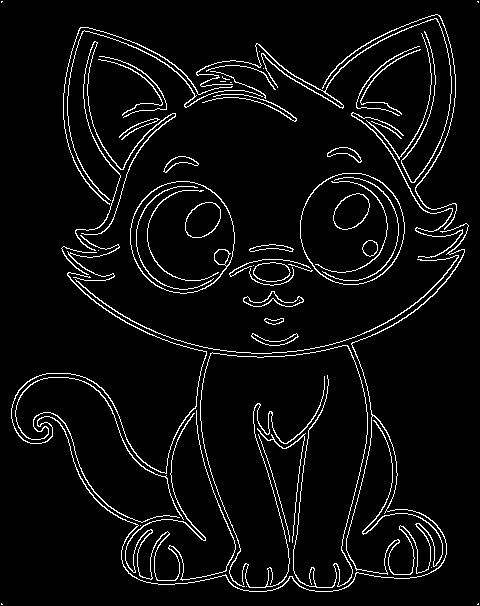
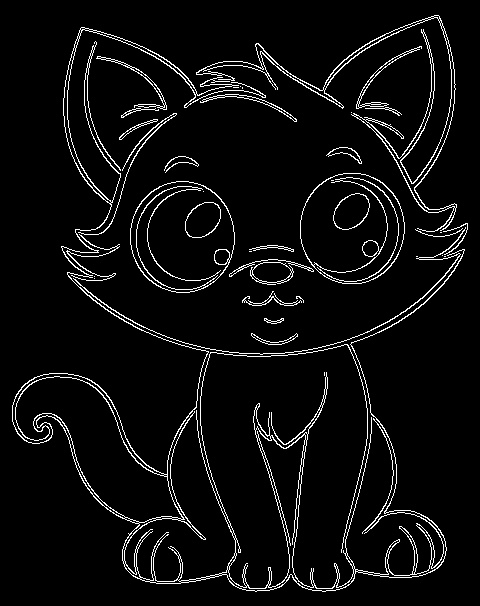
improved

diff --git a/ClassWork_4/portrait.py b/ClassWork_4/portrait.py
@@ -5,53 +5,144 @@ import matplotlib.pyplot as plt
 from animator import start_animation
 
 import sys
+sys.setrecursionlimit(10**3)
+import threading
+# threading.stack_size(2**26)
+# threading.Thread(target=start).start()
+
 sys.path.append('.\ClassWork_2')
 
 from canny import perform_canny
 
-def spread(image,x,y):
+def spread_2(image,sp_x,sp_y):
     h,w = image.shape
+        
+    parent_map = {}
+    length = 0
+    last = None
     
-    queue = deque()
-    queue.append( (x,y) )
-    
-    points = []
-    points.append( (x,y) )
+    def dfs(x,y, it):
+        
+        nonlocal length, last
+        
+        # if x == sp_x and y == sp_y and it != 0:
+        #     return
 
-    while queue:
-        item = queue.popleft()
-        x = item[0]
-        y = item[1]
-            
+
         if image[x,y] != 255:
-            continue
+            image[x][y] = 120
+            return
+        
+        image[x][y] = 120
 
-        image[x,y] = 120
+        it += 1
 
-        indices = ( (-1,-1), (0, -1), (1,-1), (-1,0), (0,0), (1,0), (-1,1), (0,1), (1,1) )
+        indices = [ (-1,-1), (0, -1), (1,-1), (-1,0), (0,0), (1,0), (-1,1), (0,1), (1,1) ]
+
+        
+
 
         for pt in indices:
             nx = x + pt[0]
             ny = y + pt[1]
             if nx < 0 or ny < 0 or nx >= h or ny >= w:
                 continue
+
             if image[nx,ny] == 255:
-                queue.append( (nx,ny) )
-                points.append( (nx,ny) )
+                parent_map[(nx,ny)] = (x,y)
+                dfs(nx,ny, it)
+                if( length <= it):
+                    length = it
+                    last = (nx,ny)
+            
+                    # image[nx,ny] = 120
+
+    parent_map[(sp_x,sp_y)] = None
+    dfs(sp_x, sp_y, 0)
+
+    print(length)
+
+    points = []
+    while( last != None ):
+        points.append( last )
+        last = parent_map[last]
+
+    return points
+
+def spread(image, sp_x, sp_y):
+    h, w = image.shape
+    
+    parent_map = {}
+    length = 0
+    last = None
+    
+    stack = [(sp_x, sp_y, 0)]
+    parent_map[(sp_x, sp_y)] = None
+    
+    while stack:
+        x, y, it = stack.pop()
+
+        # Skip this point if it's already processed or not white
+        if image[x, y] != 255:
+            continue
+        
+        # Mark this point as processed by setting it to 120
+        image[x, y] = 120
+
+        # Increment the path length
+        it += 1
+
+        # Store this as the last point if it's the longest path found so far
+        if it > length:
+            length = it
+            last = (x, y)
+
+        # Adjacent cell offsets
+        temp = [(-1, -1), (0, -1), (1, -1), (-1, 0), (0, 0), (1, 0), (-1, 1), (0, 1), (1, 1)]
+        indices = []
+        
+        for pt in temp:
+            pt2 = (pt[0]*2, pt[1]*2)
+            
+            indices.append(pt)
+            indices.append(pt2)
+        
+        for dx, dy in indices:
+            nx, ny = x + dx, y + dy
+            if 0 <= nx < h and 0 <= ny < w and image[nx, ny] == 255:
+                if (nx, ny) not in parent_map:  # Check if not already visited
+                    parent_map[(nx, ny)] = (x, y)
+                    stack.append((nx, ny, it))
+    
+    # Retrieve the path points in order from last to first
+    points = []
+    while last is not None:
+        points.append(last)
+        last = parent_map[last]
+
+    # Reverse to get points from first to last
+    points.reverse()
 
     return points
 
 def get_contours(image):
     
-    ret, thresh = cv2.threshold(image, 127, 255, cv2.THRESH_BINARY)
-    contours, _ = cv2.findContours(thresh, cv2.RETR_TREE, cv2.CHAIN_APPROX_NONE)
+    # ret, thresh = cv2.threshold(image, 127, 255, cv2.THRESH_BINARY)
+    # contours, _ = cv2.findContours(thresh, cv2.RETR_TREE, cv2.CHAIN_APPROX_NONE)
     
-    return contours
+    # return contours
 
 
     contours = []
     
     image = image.copy()
+    
+    height, width = image.shape[:2]
+    margin = 10
+    x1, y1 = margin, margin
+    x2, y2 = width - margin, height - margin
+    image = image[y1:y2, x1:x2]
+    
     h,w = image.shape
     
     for x in range(h):
@@ -60,61 +151,72 @@ def get_contours(image):
                 points = spread(image,x,y)
 
                 contours.append( points )
-    
+ 
     return contours
-
-    
 
 def get_edge_points(image):
     contours = get_contours(image)
+    print(f"Total contours found: {len(contours)}")
     
-    W_F = 10
-    H_F = 15
+    W_F = 2
+    H_F = 2
+    
+    image.fill(0)
     
     points = []
-    
-    for cnt in contours:
+
+    for i in range(len(contours)):
+        cnt = contours[i]
+        
         if len(points) >= len(cnt):
             continue
         points.clear()
+        
         for pt in cnt:
-            points.append( (pt[0][0]/W_F, pt[0][1]/H_F) )
-            # points.append( (pt[0]/W_F, pt[1]/H_F) )
+            points.append( (pt[0]/W_F, pt[1]/H_F) )
+
+    # for i in range(len(points)):
+    #     pt = points[i]
+    #     image[pt[0]][pt[1]] = 255
     return points
 
-
-def convert_to_fourier(edge_coordinates):
-    N = len(edge_coordinates)
-    fourier_coefficients = []
-
-    complex_signal = [x + 1j*y for x, y in edge_coordinates]
-
-    for k in range(N):  # For each frequency component
-        Xk = 0  # Initialize the k-th Fourier coefficient
-        for n, x_n in enumerate(complex_signal):
-            # Summation part of the DFT formula
-            Xk += x_n * np.exp(-1j * 2 * np.pi * k * n / N)
-        fourier_coefficients.append(Xk)
-
-    return fourier_coefficients
+def show_image(name, image):
+    cv2.imshow(name, image)
+    cv2.waitKey(0)
+    cv2.destroyAllWindows()
 
 def start(image_path):
-    # image = cv2.imread(image_path,0)
+    image = cv2.imread(image_path,0)
     
-    # edge = perform_canny(image=image, show=False)
-    # cv2.imshow("Cany result", edge)
-    # cv2.waitKey(0)
-    # cv2.destroyAllWindows()
+    edge = perform_canny(image=image, show=False)
     
+    # edge = cv2.Canny(image, 50, 150)
+
+    show_image("Cany result", image=edge)
     
-    # cv2.imwrite("ClassWork_4\\images\\dog_edge.jpg",edge)
+    # kernel = np.ones((1, 2), np.uint8)
+    # image = cv2.dilate(image, kernel, iterations=1)
     
+    # kernel = np.ones((3,3),np.uint8)
+    # image = cv2.erode(image, kernel, iterations=1)
     
-    image = cv2.imread("ClassWork_4\images\\dog.jpg",cv2.IMREAD_GRAYSCALE)
+    # show_image("Eroded",image)
     
-    edge_points = get_edge_points(image)
+    # image = cv2.bitwise_not(image)
+    
+    # show_image("Inverted erosion", image)
+    
+    ## cv2.imwrite("ClassWork_4\\images\\dog_edge_final.jpg",edge)
+
+    # edge = cv2.imread("ClassWork_4\images\\dog_edge_final.jpg", cv2.IMREAD_GRAYSCALE)
+    
+    show_image("Edge",image=edge)
+    
+    edge_points = get_edge_points(edge)
     
     print(f"no of edge points is: {len(edge_points)}")
+    
+    # exit(1)
     
     start_animation(edge_points)
 

diff --git a/ClassWork_4/animator.py b/ClassWork_4/animator.py
@@ -21,7 +21,7 @@ def start_animation(coordinates):
     x_list = x_list - np.mean(x_list)
     y_list = y_list - np.mean(y_list)
     
-    x_list, y_list = y_list, -x_list
+    x_list, y_list = x_list, -y_list
 
     # visualize the contour
     fig = plt.figure()
@@ -34,8 +34,9 @@ def start_animation(coordinates):
     ylim_data = plt.ylim()
     
     plt.show()
-        
-    # plt.show()
+    
+    # exit(1)
+
 
     # time data from 0 to 2*PI as x,y is the function of time.
     t_list = np.linspace(0, 2*pi, len(x_list)) # now we can relate f(t) -> x,y
@@ -82,7 +83,7 @@ def start_animation(coordinates):
     orig_drawing, = ax.plot([], [], 'g-', linewidth=0.5)
 
     # to fix the size of figure so that the figure does not get cropped/trimmed
-    LIMIT = 500
+    LIMIT = 1000
     ax.set_xlim(xlim_data[0]-LIMIT, xlim_data[1]+LIMIT)
     ax.set_ylim(ylim_data[0]-LIMIT, ylim_data[1]+LIMIT)
 

diff --git a/ClassWork_2/canny.py b/ClassWork_2/canny.py
@@ -88,7 +88,7 @@ def perform_non_maximum_suppression(image, theta):
     print(f"{c1},{c2},{c3},{c4}")
     return out
 
-def perform_canny(image, sigma=1, show=True):
+def perform_canny(image, sigma=1, show=True, without_sup = False):
     
     # Gray Scale Coversion
     #image = cv2.imread( image_path, cv2.IMREAD_GRAYSCALE)
@@ -106,8 +106,10 @@ def perform_canny(image, sigma=1, show=True):
     image_sobel, theta = perform_edge_detection(image,sigma=1)
     
     # Non Maximum Suppression
-    suppressed = perform_non_maximum_suppression(image=image_sobel,theta=theta)
-    
+    suppressed = image_sobel
+    if not without_sup:
+        suppressed = perform_non_maximum_suppression(image=image_sobel,theta=theta)
+
     # Threesholding and hysteresis
     threes = find_threeshold(image=suppressed)
     print(f"Threeshold: ${threes}")
